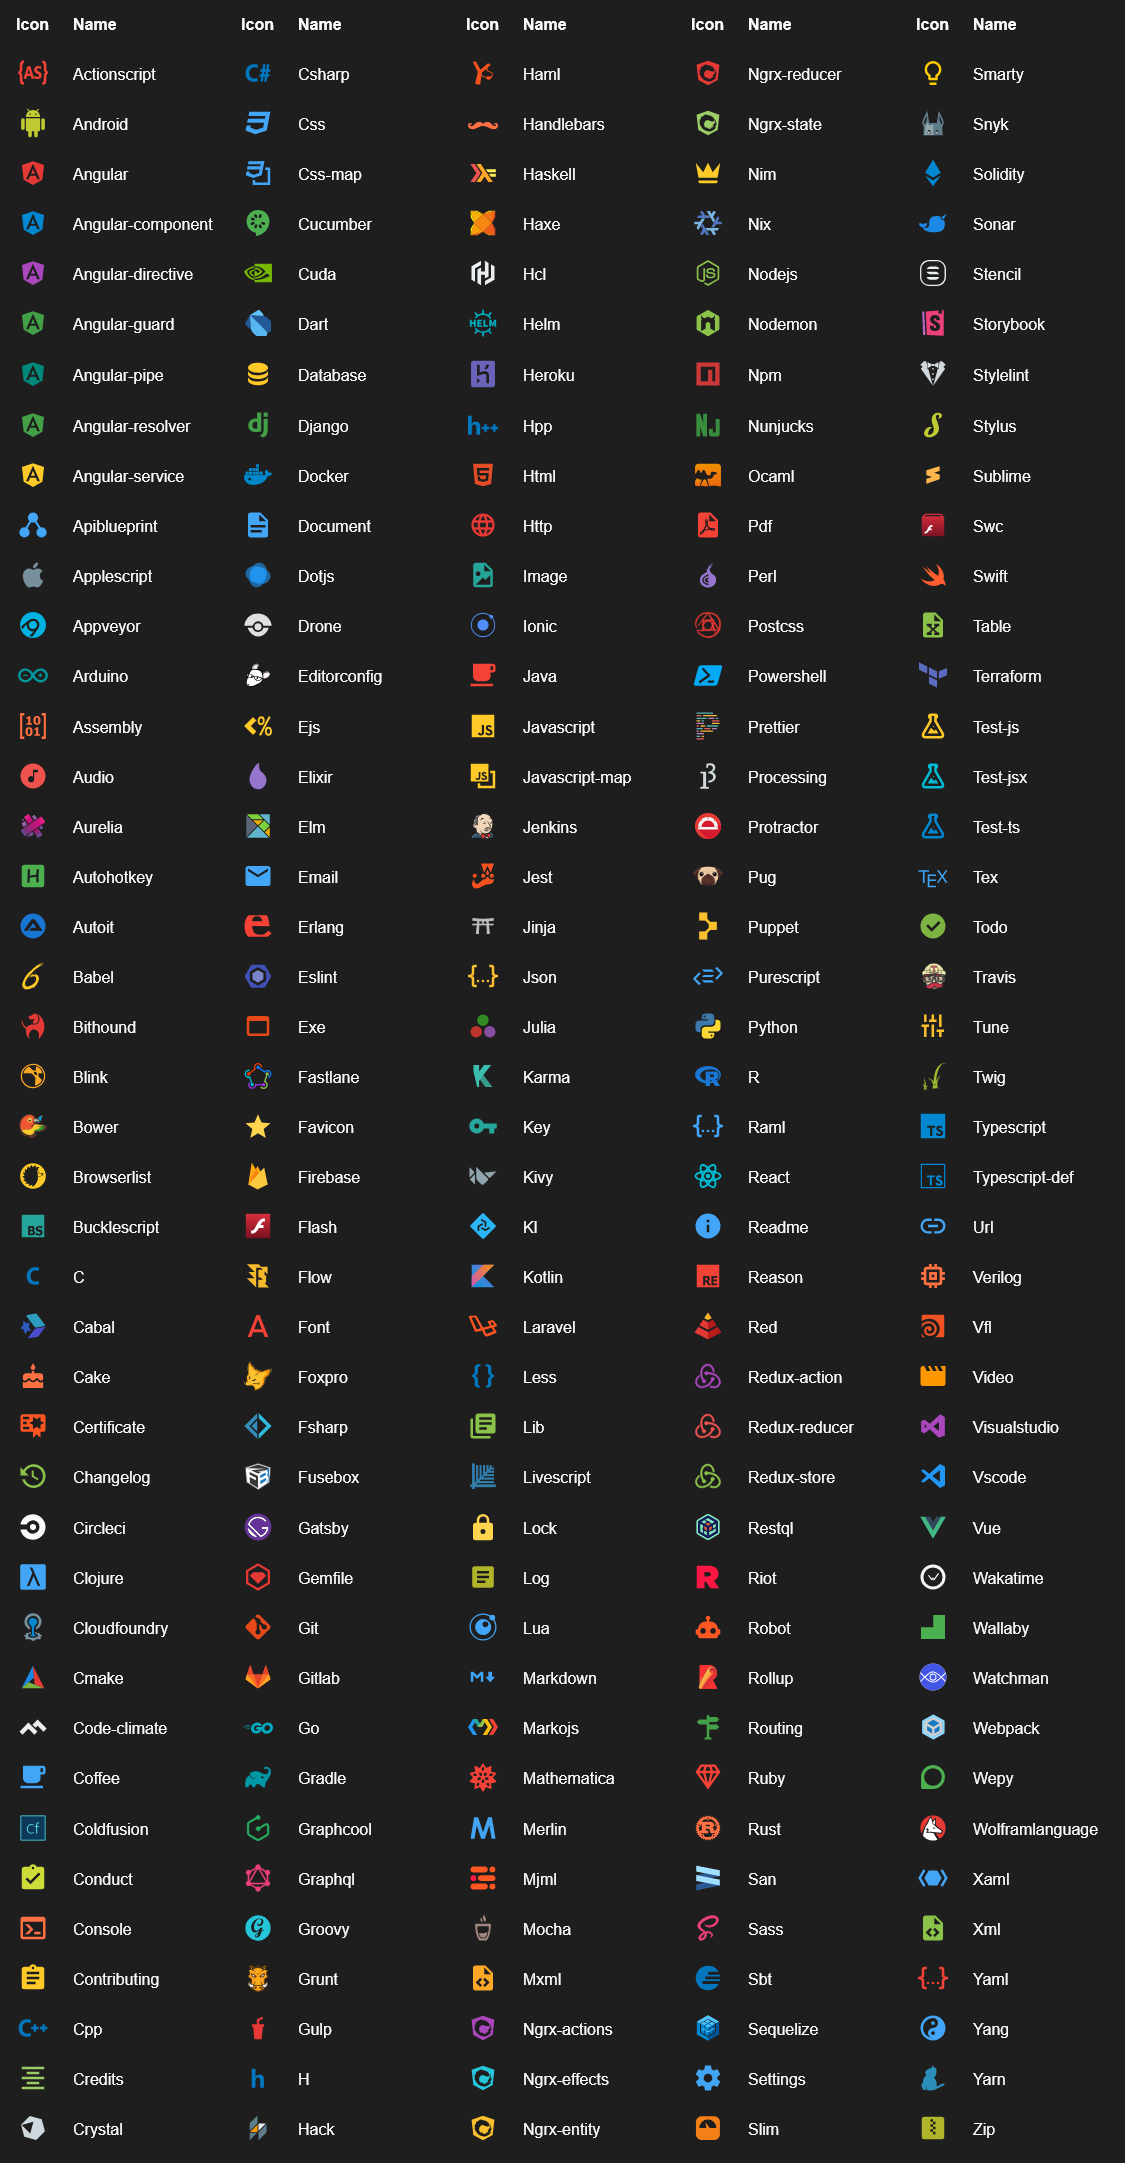
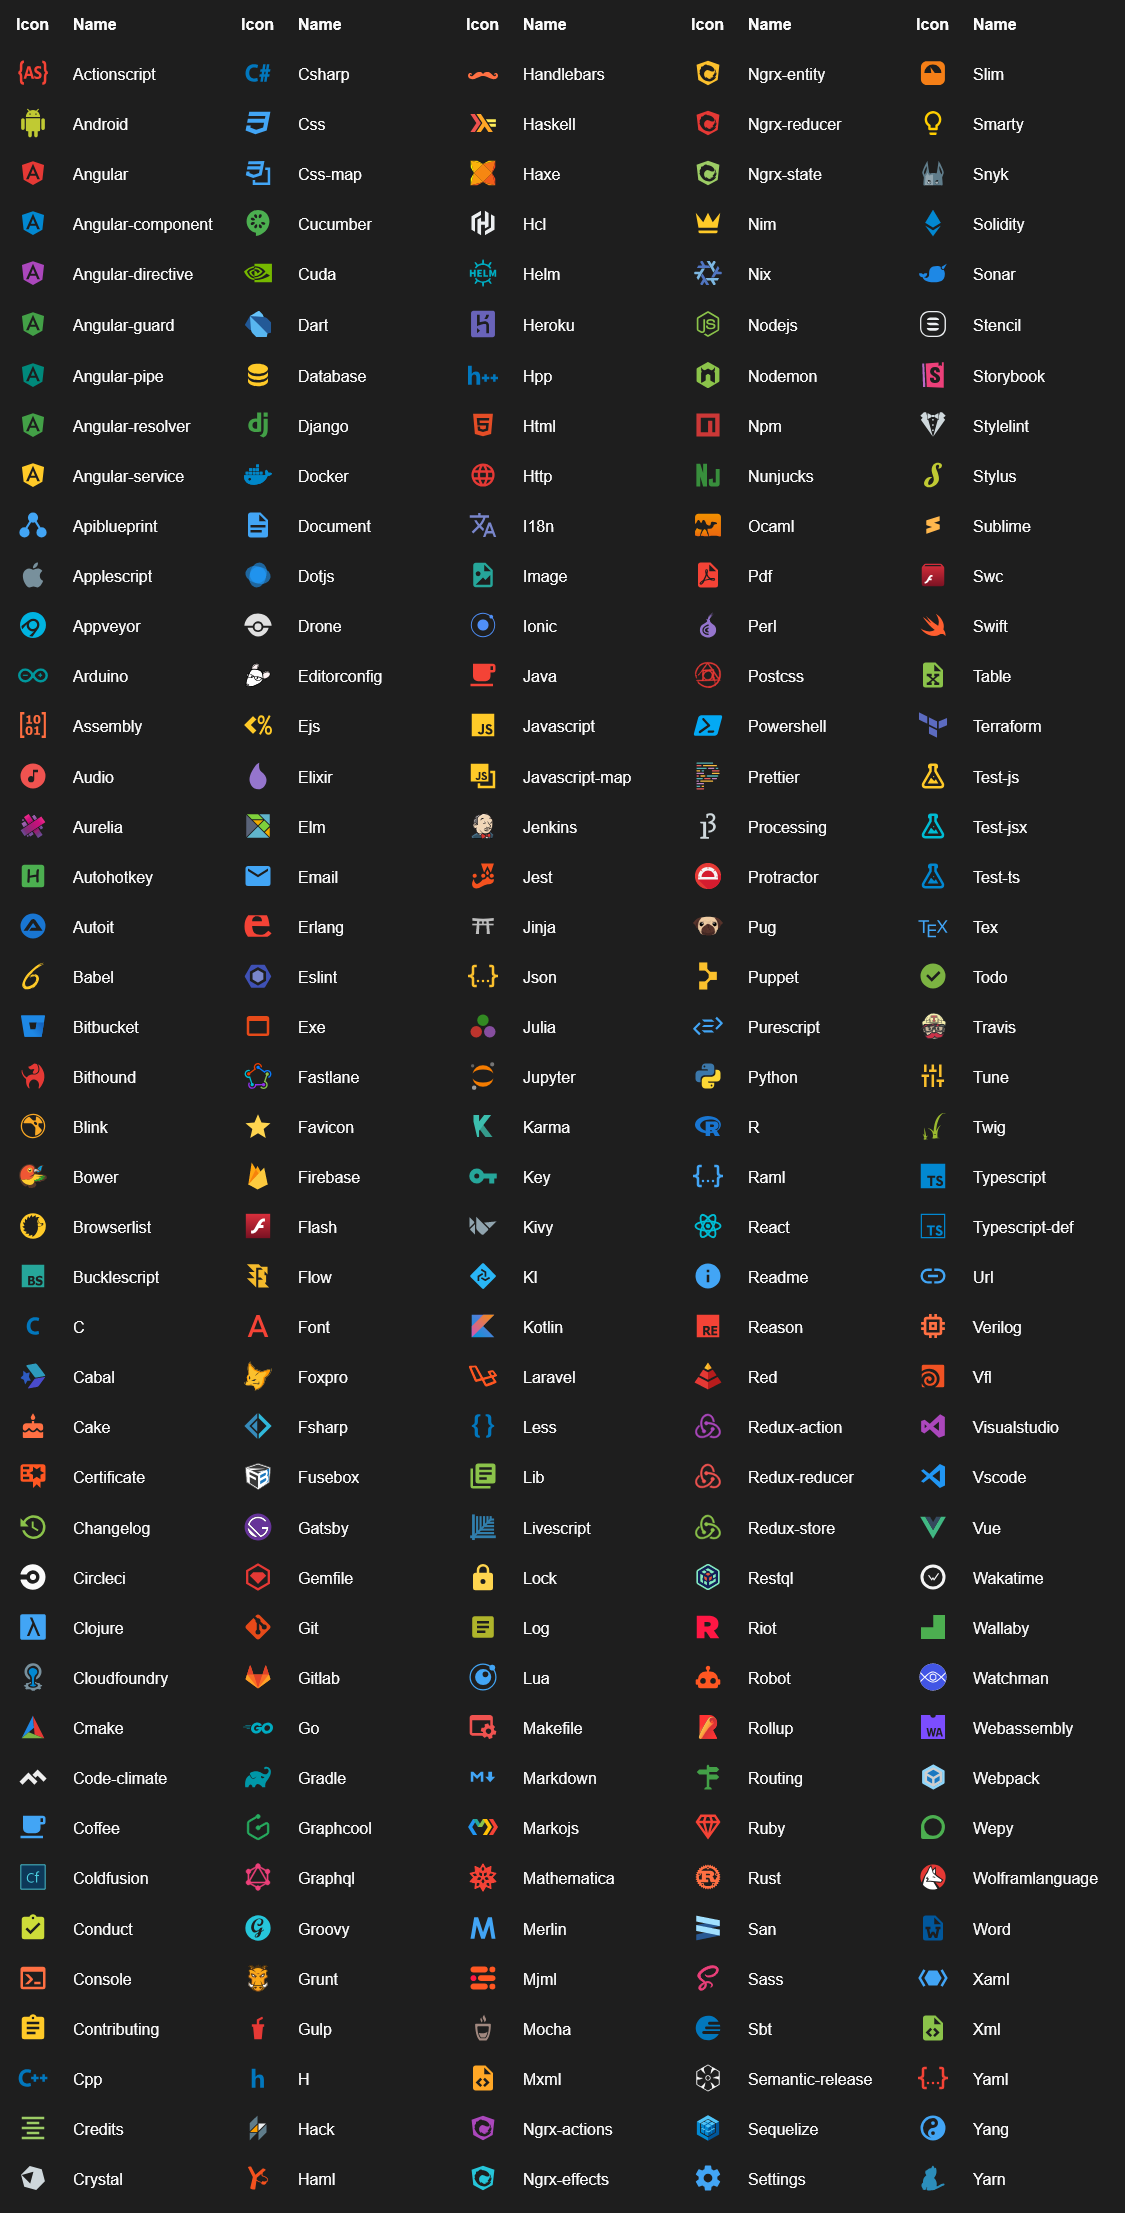
Release 3.5.2

diff --git a/scripts/preview/index.ts b/scripts/preview/index.ts
@@ -20,5 +20,5 @@ const folderThemes = filterDuplicates(folderIcons.map(theme => {
     return [].concat(...folders);
 }).reduce((a, b) => a.concat(b))).map(i => ({ iconName: i, label: i.replace('folder-', '') }));
 
-generatePreview('fileIcons', basicFileIcons, 5, ['virtual']);
-generatePreview('folderIcons', folderThemes, 5, ['folder', 'folder-expo']);
+generatePreview('fileIcons', basicFileIcons, 5, ['virtual', 'video', 'powerpoint']);
+generatePreview('folderIcons', folderThemes, 5, ['folder', 'folder-ansible', 'folder-expo']);

diff --git a/CHANGELOG.md b/CHANGELOG.md
@@ -1,4 +1,24 @@
 # Changelog
+## 3.5.2 (2018-07-21)
+### New icons
+- Webassembly (in [8b40758](https://github.com/PKief/vscode-material-icon-theme/commit/8b4075858d6d5df2b7f810aa6c817a70e5aca937))
+- gettext / i18n ([issue #276](https://github.com/PKief/vscode-material-icon-theme/issues/276))
+- .luacheckrc ([issue #277](https://github.com/PKief/vscode-material-icon-theme/issues/277))
+- Semantic Release ([issue #279](https://github.com/PKief/vscode-material-icon-theme/issues/279))
+- Bitbucket ([@haydenbr](https://github.com/haydenbr) in [#283](https://github.com/PKief/vscode-material-icon-theme/pull/283))
+- node.js (alternative version) ([issue #262](https://github.com/PKief/vscode-material-icon-theme/issues/262))
+- babel.config.js ([@titouancreach](https://github.com/titouancreach) in [#286](https://github.com/PKief/vscode-material-icon-theme/pull/286))
+- Jupyter ([issue #285](https://github.com/PKief/vscode-material-icon-theme/issues/285))
+- .gql ([@dabrowski-adam](https://github.com/dabrowski-adam) in [#287](https://github.com/PKief/vscode-material-icon-theme/pull/287))
+- Jekyll folder ([issue #290](https://github.com/PKief/vscode-material-icon-theme/issues/290))
+
+### Updated icons
+- node_modules folder (in [36cf5c7](https://github.com/PKief/vscode-material-icon-theme/commit/36cf5c79c112bcc0ad9907c02062ad6e43c3778d))
+- test folder (in [36cf5c7](https://github.com/PKief/vscode-material-icon-theme/commit/36cf5c79c112bcc0ad9907c02062ad6e43c3778d))
+
+### Other improvements
+- Updated translations (in [7f7f716](https://github.com/PKief/vscode-material-icon-theme/commit/7f7f716ddf0ffea66b3fef0a507ff0dd781b7b9d))
+
 ## 3.5.1 (2018-06-28)
 ### New icons
 - San ([issue #260](https://github.com/PKief/vscode-material-icon-theme/issues/260))
